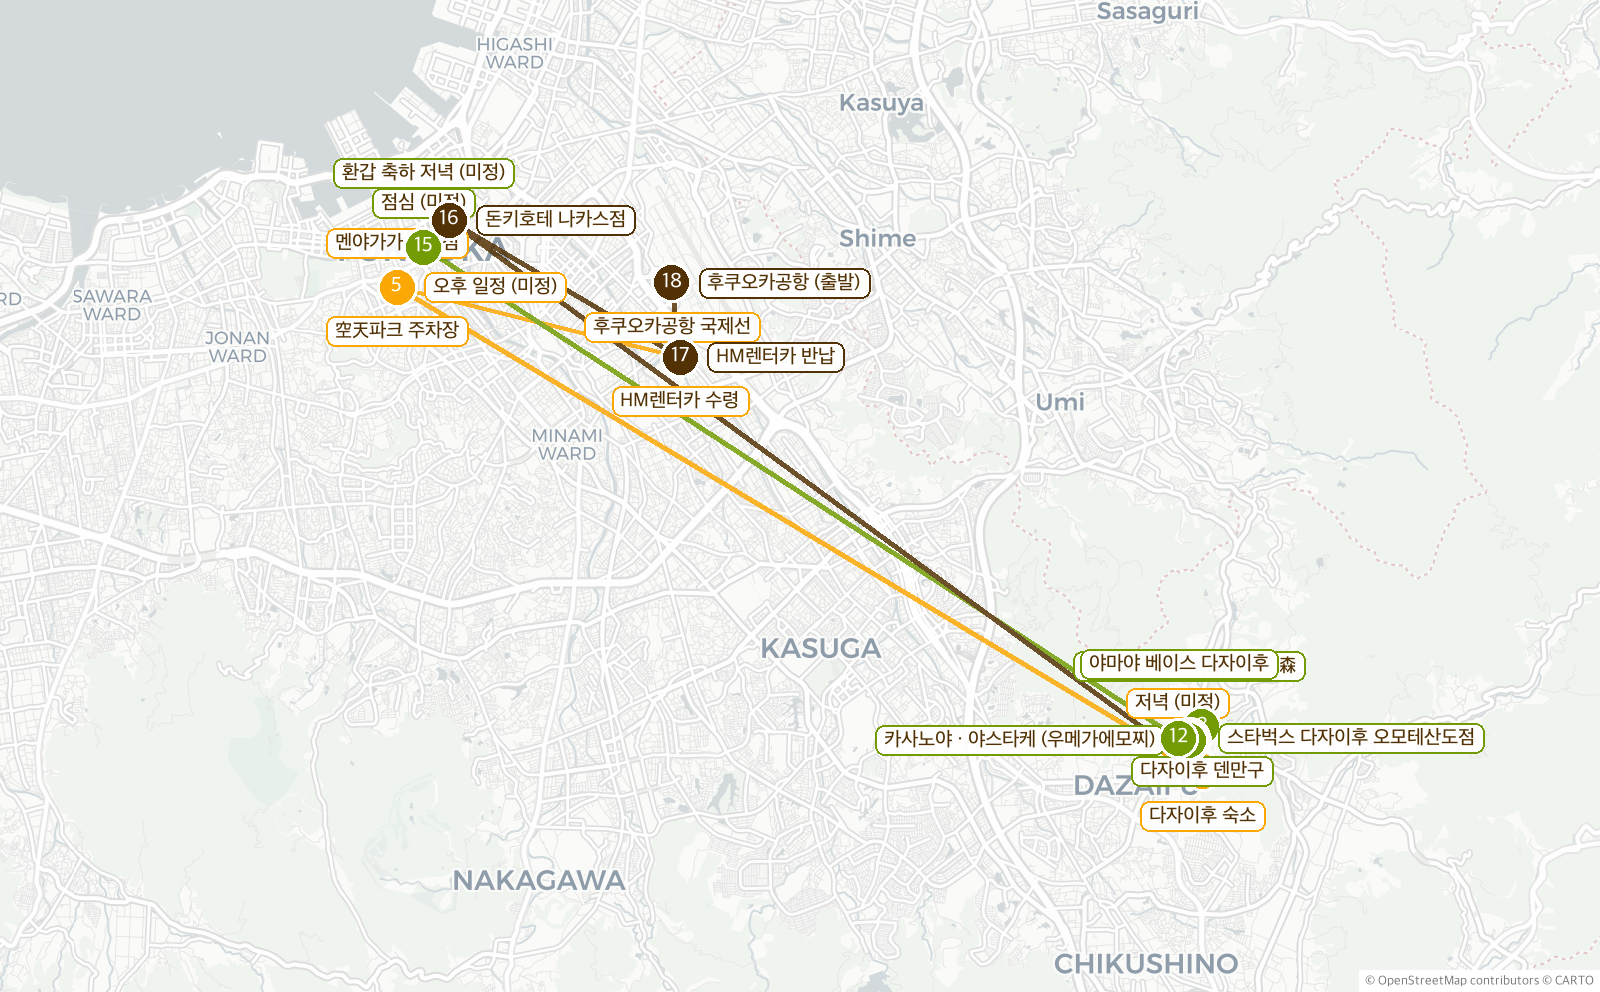
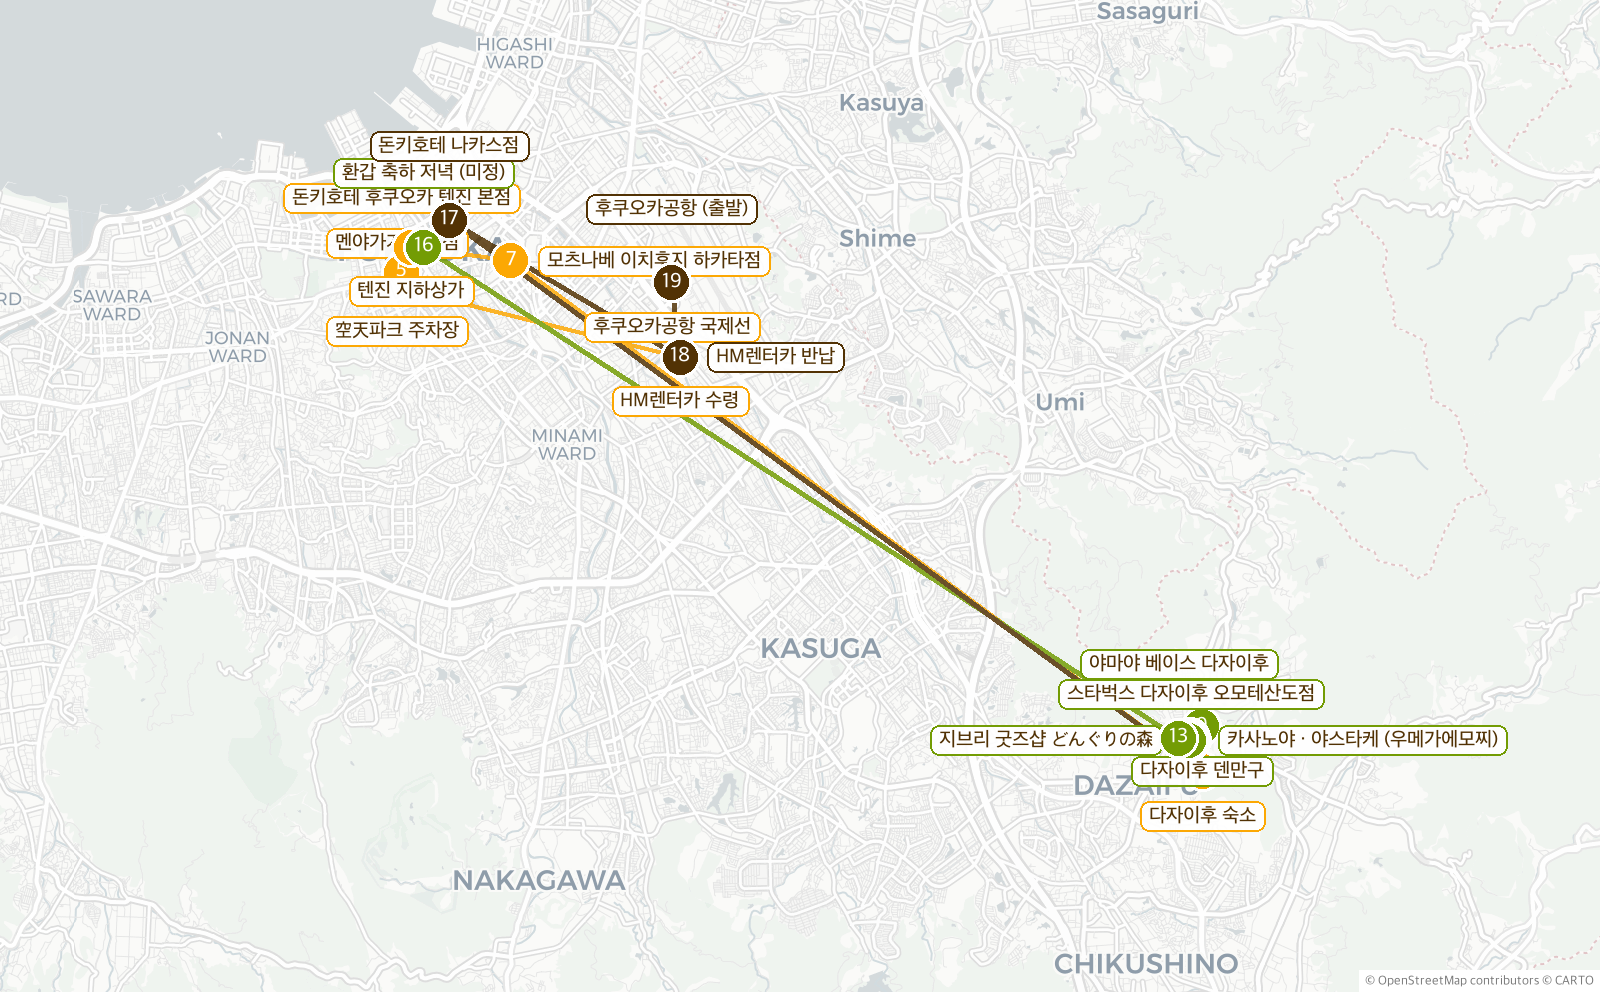
계획표 갱신 2026-08-04 15:09

diff --git a/1279cb2091/index.html b/1279cb2091/index.html
@@ -226,7 +226,7 @@
     <div id="chips" class="chips"></div>
     <script>
     (function(){
-      var pts = [{"n": 1, "id": "fuk_in", "name": "후쿠오카공항 국제선", "lat": 33.5848221, "lon": 130.4442945, "day": 1, "time": "10:05", "addr": "福岡空港 国際線ターミナル, 国道3号, 東那珂二丁目, 雀居, 博多区, 福岡市, 福岡県, 812-0897", "phone": "", "url": ""}, {"n": 2, "id": "rentcar", "name": "HM렌터카 수령", "lat": 33.5741934, "lon": 130.4457754, "day": 1, "time": "11:00", "addr": "3-7-10 Higashinaka, Hakata-ku, Fukuoka 812-0892", "phone": "092-627-7010", "url": ""}, {"n": 3, "id": "parking", "name": "空天파크 주차장", "lat": 33.5842121, "lon": 130.3971841, "day": 1, "time": "11:40", "addr": "今泉二丁目, 中央区, 福岡市", "phone": "", "url": ""}, {"n": 4, "id": "d1_lunch", "name": "멘야가가 텐진점", "lat": 33.584912100000004, "lon": 130.3978841, "day": 1, "time": "12:00", "addr": "太宰府, 筑紫野古賀線, 宰府一丁目, 白川, 太宰府市, 福岡県, 九州地方, 818-0125", "phone": "", "url": ""}, {"n": 5, "id": "d1_pm", "name": "오후 일정 (미정)", "lat": 33.5856121, "lon": 130.3985841, "day": 1, "time": "13:10", "addr": "今泉二丁目, 中央区, 福岡市", "phone": "", "url": ""}, {"n": 6, "id": "stay", "name": "다자이후 숙소", "lat": 33.514921, "lon": 130.535454, "day": 1, "time": "16:00", "addr": "3-chōme-2-3 Ishizaka, Dazaifu, Fukuoka 818-0118", "phone": "", "url": ""}, {"n": 7, "id": "d1_dinner", "name": "저녁 (미정)", "lat": 33.5184903, "lon": 130.5311595, "day": 1, "time": "18:30", "addr": "太宰府, 筑紫野古賀線, 宰府一丁目, 白川, 太宰府市, 福岡県, 九州地方, 818-0125", "phone": "", "url": ""}, {"n": 8, "id": "tenmangu", "name": "다자이후 덴만구", "lat": 33.5213084, "lon": 130.5352564, "day": 2, "time": "09:30", "addr": "太宰府天満宮, 太鼓橋, 宰府三丁目, 白川, 太宰府市, 福岡県, 818-0117", "phone": "", "url": ""}, {"n": 9, "id": "starbucks", "name": "스타벅스 다자이후 오모테산도점", "lat": 33.5197299, "lon": 130.5333743, "day": 2, "time": "11:00", "addr": "スターバックス, 宰府, 太宰府市", "phone": "", "url": ""}, {"n": 10, "id": "umegae", "name": "카사노야 · 야스타케 (우메가에모찌)", "lat": 33.5193953, "lon": 130.5334852, "day": 2, "time": "11:40", "addr": "かさの家", "phone": "", "url": ""}, {"n": 11, "id": "ghibli", "name": "지브리 굿즈샵 どんぐりの森", "lat": 33.5193754, "lon": 130.5330717, "day": 2, "time": "12:00", "addr": "どんぐりの森, 太宰府市", "phone": "", "url": ""}, {"n": 12, "id": "yamaya", "name": "야마야 베이스 다자이후", "lat": 33.5196575, "lon": 130.5313644, "day": 2, "time": "12:30", "addr": "筑紫野古賀線, 宰府三丁目, 白川, 太宰府市, 福岡県, 818-0117", "phone": "", "url": ""}, {"n": 13, "id": "d2_lunch", "name": "점심 (미정)", "lat": 33.5898988, "lon": 130.4017509, "day": 2, "time": "13:00", "addr": "福岡市, 福岡県", "phone": "", "url": ""}, {"n": 14, "id": "d2_pm", "name": "오후 일정 (미정)", "lat": 33.5905988, "lon": 130.4024509, "day": 2, "time": "15:00", "addr": "福岡市, 福岡県", "phone": "", "url": ""}, {"n": 15, "id": "d2_dinner", "name": "환갑 축하 저녁 (미정)", "lat": 33.5912988, "lon": 130.40315089999999, "day": 2, "time": "18:00", "addr": "福岡市, 福岡県", "phone": "", "url": ""}, {"n": 16, "id": "donki", "name": "돈키호테 나카스점", "lat": 33.5937653, "lon": 130.4061002, "day": 3, "time": "10:20", "addr": "博多川通り, 中洲三丁目, 博多区, 福岡市, 福岡県, 810-0801", "phone": "", "url": ""}, {"n": 17, "id": "rentcar_return", "name": "HM렌터카 반납", "lat": 33.5748934, "lon": 130.4464754, "day": 3, "time": "13:00", "addr": "3-7-10 Higashinaka, Hakata-ku, Fukuoka 812-0892", "phone": "092-627-7010", "url": ""}, {"n": 18, "id": "fuk_out", "name": "후쿠오카공항 (출발)", "lat": 33.5855221, "lon": 130.4449945, "day": 3, "time": "13:20", "addr": "福岡空港 国際線ターミナル, 国道3号, 東那珂二丁目, 雀居, 博多区, 福岡市, 福岡県, 812-0897", "phone": "", "url": ""}];
+      var pts = [{"n": 1, "id": "fuk_in", "name": "후쿠오카공항 국제선", "lat": 33.5848221, "lon": 130.4442945, "day": 1, "time": "10:05", "addr": "福岡空港 国際線ターミナル, 国道3号, 東那珂二丁目, 雀居, 博多区, 福岡市, 福岡県, 812-0897", "phone": "", "url": ""}, {"n": 2, "id": "rentcar", "name": "HM렌터카 수령", "lat": 33.5741934, "lon": 130.4457754, "day": 1, "time": "11:00", "addr": "3-7-10 Higashinaka, Hakata-ku, Fukuoka 812-0892", "phone": "092-627-7010", "url": ""}, {"n": 3, "id": "parking", "name": "空天파크 주차장", "lat": 33.5842121, "lon": 130.3971841, "day": 1, "time": "11:40", "addr": "今泉二丁目, 中央区, 福岡市", "phone": "", "url": ""}, {"n": 4, "id": "d1_lunch", "name": "멘야가가 텐진점", "lat": 33.584912100000004, "lon": 130.3978841, "day": 1, "time": "12:00", "addr": "太宰府, 筑紫野古賀線, 宰府一丁目, 白川, 太宰府市, 福岡県, 九州地方, 818-0125", "phone": "", "url": ""}, {"n": 5, "id": "donki_tenjin", "name": "돈키호테 후쿠오카 텐진 본점", "lat": 33.5863741, "lon": 130.3979888, "day": 1, "time": "13:10", "addr": "ドンキホーテ 天神, 福岡市", "phone": "", "url": ""}, {"n": 6, "id": "tenjin_chikagai", "name": "텐진 지하상가", "lat": 33.5899523, "lon": 130.3995651, "day": 1, "time": "14:30", "addr": "天神地下街, 天神二丁目", "phone": "", "url": ""}, {"n": 7, "id": "ichifuji", "name": "모츠나베 이치후지 하카타점", "lat": 33.5880142, "lon": 130.4167016, "day": 1, "time": "16:40", "addr": "博多駅前三丁目, 博多区, 福岡市", "phone": "", "url": ""}, {"n": 8, "id": "stay", "name": "다자이후 숙소", "lat": 33.514921, "lon": 130.535454, "day": 1, "time": "19:10", "addr": "3-chōme-2-3 Ishizaka, Dazaifu, Fukuoka 818-0118", "phone": "", "url": ""}, {"n": 9, "id": "tenmangu", "name": "다자이후 덴만구", "lat": 33.5213084, "lon": 130.5352564, "day": 2, "time": "09:30", "addr": "太宰府天満宮, 太鼓橋, 宰府三丁目, 白川, 太宰府市, 福岡県, 818-0117", "phone": "", "url": ""}, {"n": 10, "id": "starbucks", "name": "스타벅스 다자이후 오모테산도점", "lat": 33.5197299, "lon": 130.5333743, "day": 2, "time": "11:00", "addr": "スターバックス, 宰府, 太宰府市", "phone": "", "url": ""}, {"n": 11, "id": "umegae", "name": "카사노야 · 야스타케 (우메가에모찌)", "lat": 33.5193953, "lon": 130.5334852, "day": 2, "time": "11:40", "addr": "かさの家", "phone": "", "url": ""}, {"n": 12, "id": "ghibli", "name": "지브리 굿즈샵 どんぐりの森", "lat": 33.5193754, "lon": 130.5330717, "day": 2, "time": "12:00", "addr": "どんぐりの森, 太宰府市", "phone": "", "url": ""}, {"n": 13, "id": "yamaya", "name": "야마야 베이스 다자이후", "lat": 33.5196575, "lon": 130.5313644, "day": 2, "time": "12:30", "addr": "筑紫野古賀線, 宰府三丁目, 白川, 太宰府市, 福岡県, 818-0117", "phone": "", "url": ""}, {"n": 14, "id": "d2_lunch", "name": "점심 (미정)", "lat": 33.5898988, "lon": 130.4017509, "day": 2, "time": "13:00", "addr": "福岡市, 福岡県", "phone": "", "url": ""}, {"n": 15, "id": "d2_pm", "name": "오후 일정 (미정)", "lat": 33.5905988, "lon": 130.4024509, "day": 2, "time": "15:00", "addr": "福岡市, 福岡県", "phone": "", "url": ""}, {"n": 16, "id": "d2_dinner", "name": "환갑 축하 저녁 (미정)", "lat": 33.5912988, "lon": 130.40315089999999, "day": 2, "time": "18:00", "addr": "福岡市, 福岡県", "phone": "", "url": ""}, {"n": 17, "id": "donki", "name": "돈키호테 나카스점", "lat": 33.5937653, "lon": 130.4061002, "day": 3, "time": "10:20", "addr": "博多川通り, 中洲三丁目, 博多区, 福岡市, 福岡県, 810-0801", "phone": "", "url": ""}, {"n": 18, "id": "rentcar_return", "name": "HM렌터카 반납", "lat": 33.5748934, "lon": 130.4464754, "day": 3, "time": "13:00", "addr": "3-7-10 Higashinaka, Hakata-ku, Fukuoka 812-0892", "phone": "092-627-7010", "url": ""}, {"n": 19, "id": "fuk_out", "name": "후쿠오카공항 (출발)", "lat": 33.5855221, "lon": 130.4449945, "day": 3, "time": "13:20", "addr": "福岡空港 国際線ターミナル, 国道3号, 東那珂二丁目, 雀居, 博多区, 福岡市, 福岡県, 812-0897", "phone": "", "url": ""}];
       var colors = {"1": "#FCA804", "2": "#739C04", "3": "#523204"};
       // 선은 캔버스로 그린다 (SVG로 그리면 일부 환경에서 색 덩어리로 깨진다)
       var map = L.map('map', {scrollWheelZoom:false, preferCanvas:true});
@@ -384,23 +384,31 @@
     <div class="gap"><span class="bd">차로 10분</span></div>
     <div class="item" data-pin="3">
       <div class="time">11:40</div>
-      <div class="body"><div class="t"><span class="pin d1">3</span>空天파크 주차장</div><div class="d">2-1-55 Imaizumi, Chuo-ku (今泉2丁目) · 렌터카 매장에서 6.5km<br>차를 여기 대고 텐진 일대는 걸어서 · 지도 핀은 丁目 중심</div></div>
+      <div class="body"><div class="t"><span class="pin d1">3</span>空天파크 주차장</div><div class="d">2-1-55 Imaizumi, Chuo-ku (今泉2丁目) · 렌터카 매장에서 6.5km<br><b>오후 세 곳이 전부 도보권</b> — 차는 여기 한 번만 대면 됨 (약 4시간 30분 주차)<br>장시간 요금 상한이 있는지 미리 확인할 것</div></div>
     </div>
     <div class="item" data-pin="4">
       <div class="time">12:00<span class="to">~13:00</span></div>
       <div class="body"><div class="t"><span class="pin d1">4</span>점심 · 멘야가가 텐진점</div><div class="d">2-5-6 Imaizumi 1F-B · 주차장에서 도보 3분</div></div>
     </div>
-    <div class="item blank" data-pin="5">
-      <div class="time">13:10<span class="to">~15:00</span></div>
-      <div class="body"><div class="t">오후 일정 (미정)</div><div class="d">텐진·이마이즈미 일대 · 보내주시던 3번 항목 자리</div></div>
+    <div class="item" data-pin="5">
+      <div class="time">13:10<span class="to">~14:20</span></div>
+      <div class="body"><div class="t"><span class="pin d1">5</span>돈키호테 후쿠오카 텐진 본점</div><div class="d">今泉1丁目 · 주차장·식당에서 도보 3분<br>3일차 나카스점에도 들르니 여기서는 가볍게 둘러봐도 됨</div></div>
+    </div>
+    <div class="item" data-pin="6">
+      <div class="time">14:30<span class="to">~16:00</span></div>
+      <div class="body"><div class="t"><span class="pin d1">6</span>텐진 지하상가</div><div class="d">天神2丁目 지하 · 돈키호테에서 도보 6분<br>비 와도 상관없고 유모차 다니기 편함</div></div>
     </div>
     <div class="item">
-      <div class="time">16:00</div>
-      <div class="body"><div class="t">숙소 체크인</div><div class="d">에어비앤비 독채 · 3-chōme-2-3 Ishizaka, Dazaifu, Fukuoka 818-0118 · 텐진에서 19.1km<br>4LDK 100㎡ 이상 · 岩風呂 · 무료 주차 2대 · 역까지 도보 10분 · 호스트 Yuichi, 공동호스트 Megu</div></div>
+      <div class="time">16:10</div>
+      <div class="body"><div class="t">주차장 복귀 · 차 회수</div><div class="d">지하상가에서 도보 8분</div></div>
     </div>
-    <div class="item blank" data-pin="7">
-      <div class="time">18:30</div>
-      <div class="body"><div class="t">저녁 (미정)</div><div class="d">숙소에서 해 먹을지, 나가서 먹을지 정하기</div></div>
+    <div class="item" data-pin="7">
+      <div class="time">16:40<span class="to">~18:20</span></div>
+      <div class="body"><div class="t"><span class="pin d1">7</span>저녁 · 모츠나베 이치후지 하카타점</div><div class="d">博多駅前3丁目 · 텐진에서 2.1km (저녁 정체 감안 15분)<br><b>주차 주의</b> — 전용 주차장이 없어 하카타역 주변 코인파킹을 써야 함<br>만차가 걱정되면 차를 空天파크에 두고 지하철로 왕복하는 방법도 있음 (텐진↔하카타 5분)<br>인기 가게라 예약 권장</div></div>
+    </div>
+    <div class="item">
+      <div class="time">19:10</div>
+      <div class="body"><div class="t">숙소 체크인</div><div class="d">에어비앤비 독채 · 3-chōme-2-3 Ishizaka, Dazaifu, Fukuoka 818-0118 · 하카타에서 16.6km(24분)<br>4LDK 100㎡ 이상 · 岩風呂 · 무료 주차 2대 · 호스트 Yuichi, 공동호스트 Megu</div></div>
     </div>
   </div>
 
@@ -408,25 +416,25 @@
   <div class="day pane-travel" style="--dc:var(--day2)">
     <div class="day-head"><span class="badge">DAY 2</span><span class="date">10월 17일 (토) · 아버지 환갑</span></div>
     <div class="gap"><span class="bd">숙소에서 차로 4분</span></div>
-    <div class="item" data-pin="8">
+    <div class="item" data-pin="9">
       <div class="time">09:30<span class="to">~11:00</span></div>
-      <div class="body"><div class="t"><span class="pin d2">8</span>다자이후 덴만구</div><div class="d">太宰府天満宮 · 太宰府市宰府3丁目 · 숙소에서 1.3km<br>학문의 신 스가와라노 미치자네를 모신 곳 · 아버지 환갑 기념 참배</div></div>
+      <div class="body"><div class="t"><span class="pin d2">9</span>다자이후 덴만구</div><div class="d">太宰府天満宮 · 太宰府市宰府3丁目 · 숙소에서 1.3km<br>학문의 신 스가와라노 미치자네를 모신 곳 · 아버지 환갑 기념 참배</div></div>
     </div>
     <div class="item">
       <div class="time">11:00<span class="to">~11:40</span></div>
       <div class="body"><div class="t">스타벅스 다자이후 텐만구 오모테산도점</div><div class="d">참배길 · 덴만구에서 도보 5분<br>구마 겐고가 설계한 나무 격자 매장</div></div>
     </div>
-    <div class="item" data-pin="10">
+    <div class="item" data-pin="11">
       <div class="time">11:40<span class="to">~12:00</span></div>
-      <div class="body"><div class="t"><span class="pin d2">10</span>카사노야 · 야스타케 (우메가에모찌)</div><div class="d">참배길 · 스타벅스 바로 옆<br>かさの家와 やす武가 60m 거리 · 갓 구운 우메가에모찌</div></div>
+      <div class="body"><div class="t"><span class="pin d2">11</span>카사노야 · 야스타케 (우메가에모찌)</div><div class="d">참배길 · 스타벅스 바로 옆<br>かさの家와 やす武가 60m 거리 · 갓 구운 우메가에모찌</div></div>
     </div>
     <div class="item">
       <div class="time">12:00<span class="to">~12:30</span></div>
       <div class="body"><div class="t">지브리 굿즈샵 · どんぐりの森</div><div class="d">참배길 (도토리공화국 계열)<br>새봄이 선물 사기 좋은 곳</div></div>
     </div>
-    <div class="item" data-pin="12">
+    <div class="item" data-pin="13">
       <div class="time">12:30<span class="to">~12:50</span></div>
-      <div class="body"><div class="t"><span class="pin d2">12</span>야마야 베이스 다자이후</div><div class="d">YAMAYA BASE DAZAIFU · 宰府3丁目 · 지브리샵에서 도보 7분<br>명란바게트 테이크아웃</div></div>
+      <div class="body"><div class="t"><span class="pin d2">13</span>야마야 베이스 다자이후</div><div class="d">YAMAYA BASE DAZAIFU · 宰府3丁目 · 지브리샵에서 도보 7분<br>명란바게트 테이크아웃</div></div>
     </div>
     <div class="item blank">
       <div class="time">13:00<span class="to">~14:30</span></div>
@@ -455,19 +463,19 @@
       <div class="body"><div class="t">숙소 퇴실</div><div class="d">체크아웃 시각 확인 필요 · 짐 싣고 출발</div></div>
     </div>
     <div class="gap"><span class="bd">숙소에서 차로 24분</span></div>
-    <div class="item" data-pin="16">
+    <div class="item" data-pin="17">
       <div class="time">10:20<span class="to">~12:20</span></div>
-      <div class="body"><div class="t"><span class="pin d3">16</span>돈키호테 나카스점</div><div class="d">福岡市博多区中洲3丁目 · 숙소에서 17.9km<br>귀국 전 쇼핑 · 면세 카운터 줄이 길 수 있으니 여권 챙기고 서두를 것</div></div>
+      <div class="body"><div class="t"><span class="pin d3">17</span>돈키호테 나카스점</div><div class="d">福岡市博多区中洲3丁目 · 숙소에서 17.9km<br>귀국 전 쇼핑 · 면세 카운터 줄이 길 수 있으니 여권 챙기고 서두를 것</div></div>
     </div>
     <div class="gap"><span class="bd">차로 8분</span></div>
-    <div class="item" data-pin="17">
+    <div class="item" data-pin="18">
       <div class="time">12:30<span class="to">~13:00</span></div>
-      <div class="body"><div class="t"><span class="pin d3">17</span>HM렌터카 반납</div><div class="d">예약상 반납 <b>13:00</b> · 반납 전 주유소 들르기<br>반납 후 매장 송영버스로 국제선 터미널까지 이동<br>차를 반납하므로 민재네는 이후 시내 이동을 지하철·버스로</div></div>
+      <div class="body"><div class="t"><span class="pin d3">18</span>HM렌터카 반납</div><div class="d">예약상 반납 <b>13:00</b> · 반납 전 주유소 들르기<br>반납 후 매장 송영버스로 국제선 터미널까지 이동<br>차를 반납하므로 민재네는 이후 시내 이동을 지하철·버스로</div></div>
     </div>
     <div class="gap"><span class="bd">차로 4분</span></div>
-    <div class="item" data-pin="18">
+    <div class="item" data-pin="19">
       <div class="time">13:20</div>
-      <div class="body"><div class="t"><span class="pin d3">18</span>후쿠오카공항 (출발) 도착</div><div class="d">매장 송영버스로 2.4km · 출발 1시간 35분 전</div></div>
+      <div class="body"><div class="t"><span class="pin d3">19</span>후쿠오카공항 (출발) 도착</div><div class="d">매장 송영버스로 2.4km · 출발 1시간 35분 전</div></div>
     </div>
     <div class="item">
       <div class="time">14:55<span class="to">~15:55</span></div>
@@ -511,7 +519,7 @@
   </div>
   <div class="info pane-book">
     <h3>채워야 할 것</h3>
-    <div class="row"><div class="k">1일차</div><div class="v">오후 일정 (텐진, 3번 항목) · 저녁</div></div>
+    <div class="row"><div class="k">1일차</div><div class="v">모두 확정 · 이치후지 예약, 空天파크 주차 요금만 확인</div></div>
     <div class="row"><div class="k">2일차</div><div class="v">점심 · 오후 일정 · 환갑 저녁 (예약 여부)</div></div>
     <div class="row"><div class="k">3일차</div><div class="v">숙소 체크아웃 시각 (돈키호테 일정 확정됨)</div></div>
     <div class="row"><div class="k">기타</div><div class="v">유아 카시트 (일본은 6세 미만 의무) · 사전 요청 필요<br>7명 + 카시트 + 짐이 델리카 D5(8인승)에 들어가는지<br>출국 전 카카오톡 hm240801 친구 추가해두기</div></div>

diff --git a/1279cb2091/print.html b/1279cb2091/print.html
@@ -106,7 +106,7 @@
       <h2>여행 동선</h2>
       <!-- MAP:START (build.py 자동 생성) -->
       <img src="map.png" alt="후쿠오카 여행 동선 지도">
-      <div class="drive">후쿠오카공항 국제선→HM렌터카 수령 4분 · HM렌터카 수령→空天파크 주차장 10분 · 空天파크 주차장→멘야가가 텐진점 0분 · 멘야가가 텐진점→오후 일정 (미정) 0분 · 오후 일정 (미정)→다자이후 숙소 26분 · 다자이후 숙소→저녁 (미정) 2분 · 다자이후 숙소→다자이후 덴만구 4분 · 다자이후 덴만구→스타벅스 다자이후 오모테산도점 2분 · 스타벅스 다자이후 오모테산도점→카사노야 · 야스타케 (우메가에모찌) 0분 · 카사노야 · 야스타케 (우메가에모찌)→지브리 굿즈샵 どんぐりの森 0분 · 지브리 굿즈샵 どんぐりの森→야마야 베이스 다자이후 2분 · 야마야 베이스 다자이후→점심 (미정) 23분 · 점심 (미정)→오후 일정 (미정) 0분 · 오후 일정 (미정)→환갑 축하 저녁 (미정) 0분 · 환갑 축하 저녁 (미정)→다자이후 숙소 25분 · 다자이후 숙소→돈키호테 나카스점 24분 · 돈키호테 나카스점→HM렌터카 반납 8분 · HM렌터카 반납→후쿠오카공항 (출발) 4분</div>
+      <div class="drive">후쿠오카공항 국제선→HM렌터카 수령 4분 · HM렌터카 수령→空天파크 주차장 10분 · 텐진 지하상가→모츠나베 이치후지 하카타점 3분 · 모츠나베 이치후지 하카타점→다자이후 숙소 24분 · 다자이후 숙소→다자이후 덴만구 4분 · 야마야 베이스 다자이후→점심 (미정) 23분 · 점심 (미정)→오후 일정 (미정) 0분 · 오후 일정 (미정)→환갑 축하 저녁 (미정) 0분 · 환갑 축하 저녁 (미정)→다자이후 숙소 25분 · 다자이후 숙소→돈키호테 나카스점 24분 · 돈키호테 나카스점→HM렌터카 반납 8분 · HM렌터카 반납→후쿠오카공항 (출발) 4분</div>
     <!-- MAP:END -->
       <div class="legend">
         <span><i class="dot" style="background:var(--day1)"></i>Day 1 이동</span>
@@ -140,8 +140,10 @@
       <div class="it"><div class="tm">11:00</div><div class="bd"><div class="t">HM렌터카 수령</div><div class="d">A3 출구 → 15번 승강장 → 매장 연락(카톡 hm240801)</div></div></div>
       <div class="it"><div class="tm">11:40</div><div class="bd"><div class="t">空天파크 주차장</div><div class="d">今泉2-1-55 · 매장에서 10분</div></div></div>
       <div class="it"><div class="tm">12:00</div><div class="bd"><div class="t">점심 · 멘야가가 텐진점</div><div class="d">今泉2-5-6 · 주차장에서 도보 3분</div></div></div>
-      <div class="it"><div class="tm">13:10</div><div class="bd"><div class="t blank">오후 일정 (미정)</div><div class="d">텐진 일대 · 15:00까지</div></div></div>
-      <div class="it"><div class="tm">16:00</div><div class="bd"><div class="t">숙소 체크인</div><div class="d">3-2-3 Ishizaka · 텐진에서 26분</div></div></div>
+      <div class="it"><div class="tm">13:10</div><div class="bd"><div class="t">돈키호테 텐진 본점</div><div class="d">今泉1丁目 · 도보 3분</div></div></div>
+      <div class="it"><div class="tm">14:30</div><div class="bd"><div class="t">텐진 지하상가</div><div class="d">도보 6분</div></div></div>
+      <div class="it"><div class="tm">16:40</div><div class="bd"><div class="t">저녁 · 모츠나베 이치후지 하카타점</div><div class="d">博多駅前3丁目 · 코인파킹 필요</div></div></div>
+      <div class="it"><div class="tm">19:10</div><div class="bd"><div class="t">숙소 체크인</div><div class="d">3-2-3 Ishizaka · 하카타에서 24분</div></div></div>
       <div class="it"><div class="tm">19:00</div><div class="bd"><div class="t blank">저녁 (미정)</div><div class="d"></div></div></div>
     </div>
 
